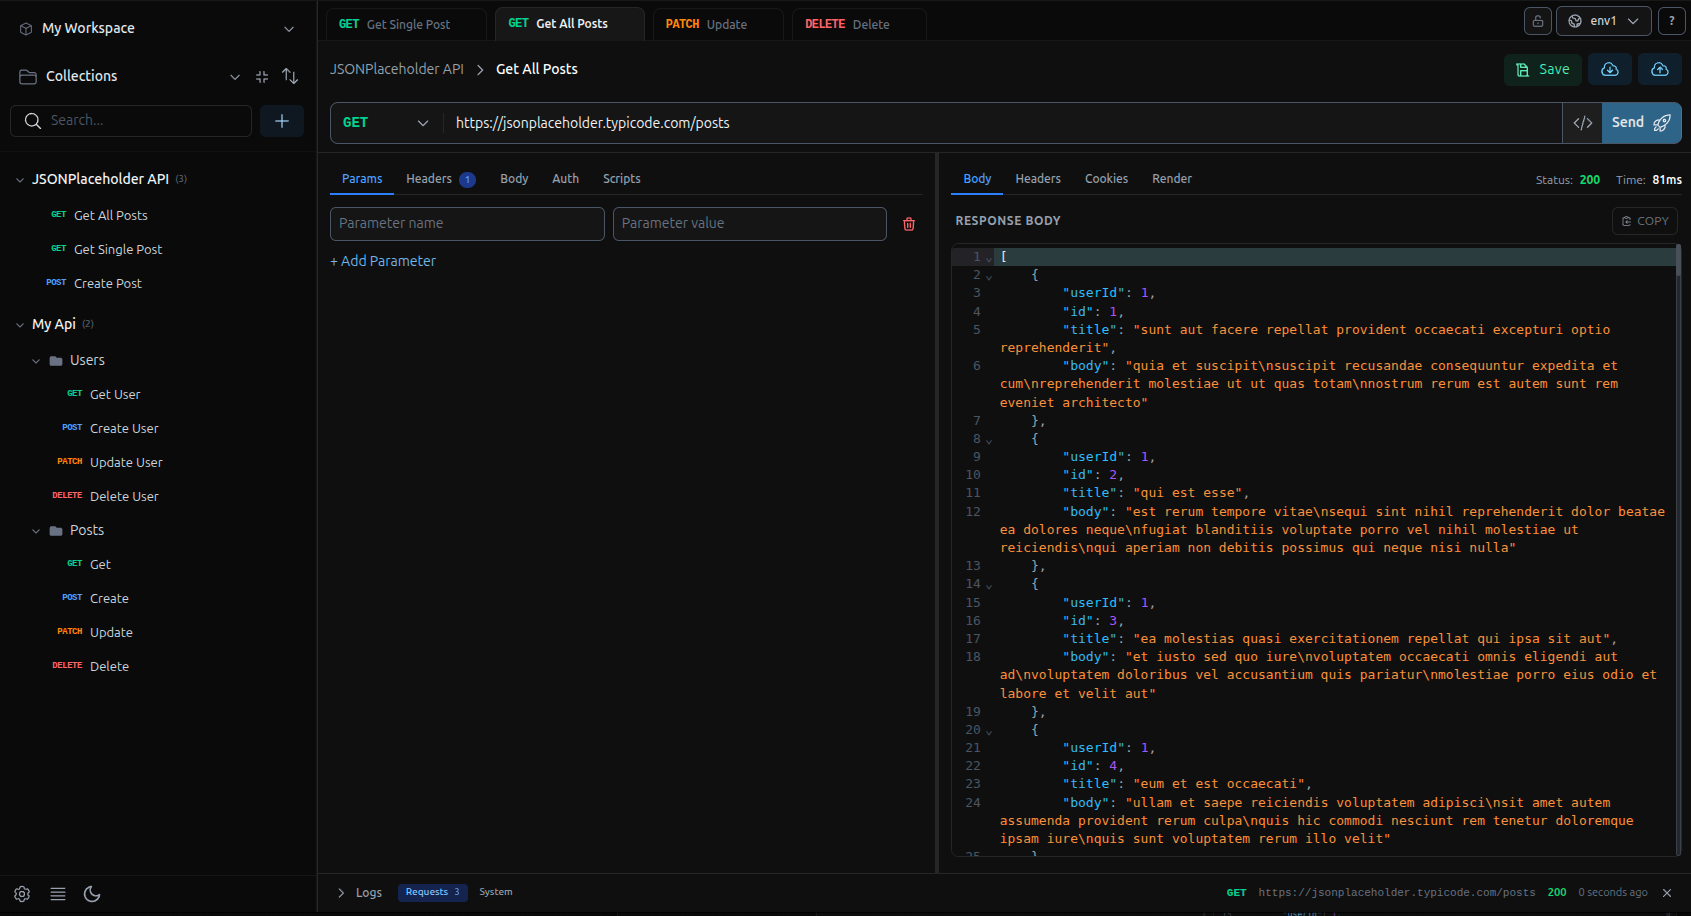
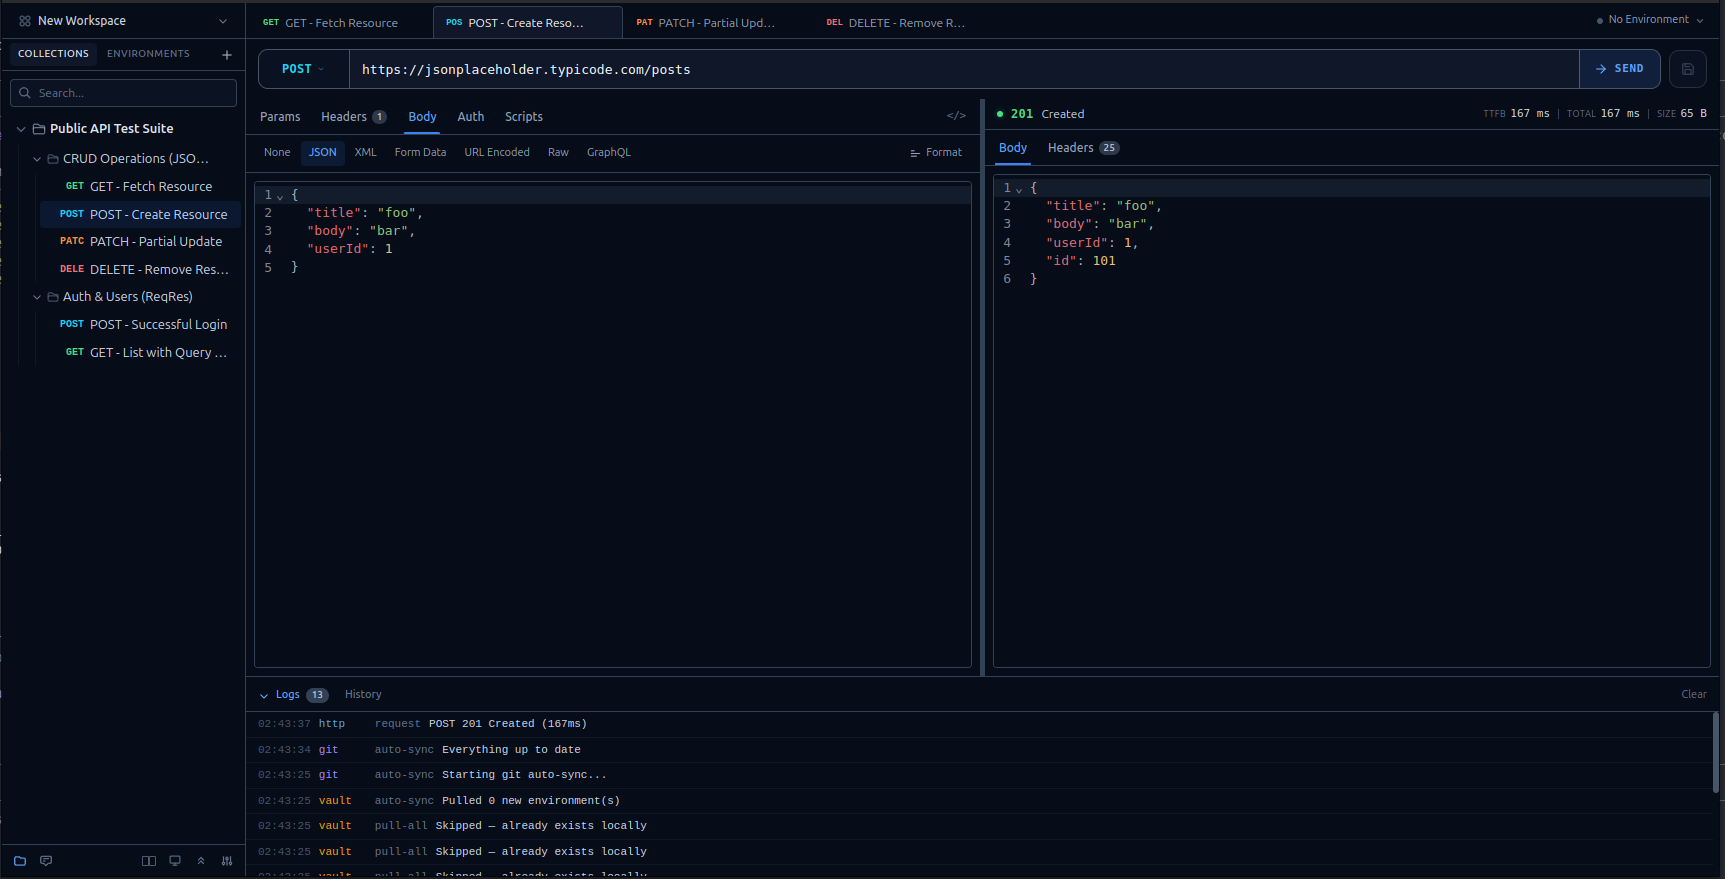
Add app screenshot to hero section

diff --git a/index.html b/index.html
@@ -128,6 +128,10 @@
             </div>
 
         </div>
+
+        <div class="screenshot-wrap animate-in delay-4">
+            <img src="images/screenshot.png" alt="Vaxtly — Desktop API Client" loading="eager">
+        </div>
     </div>
 </section>
 
